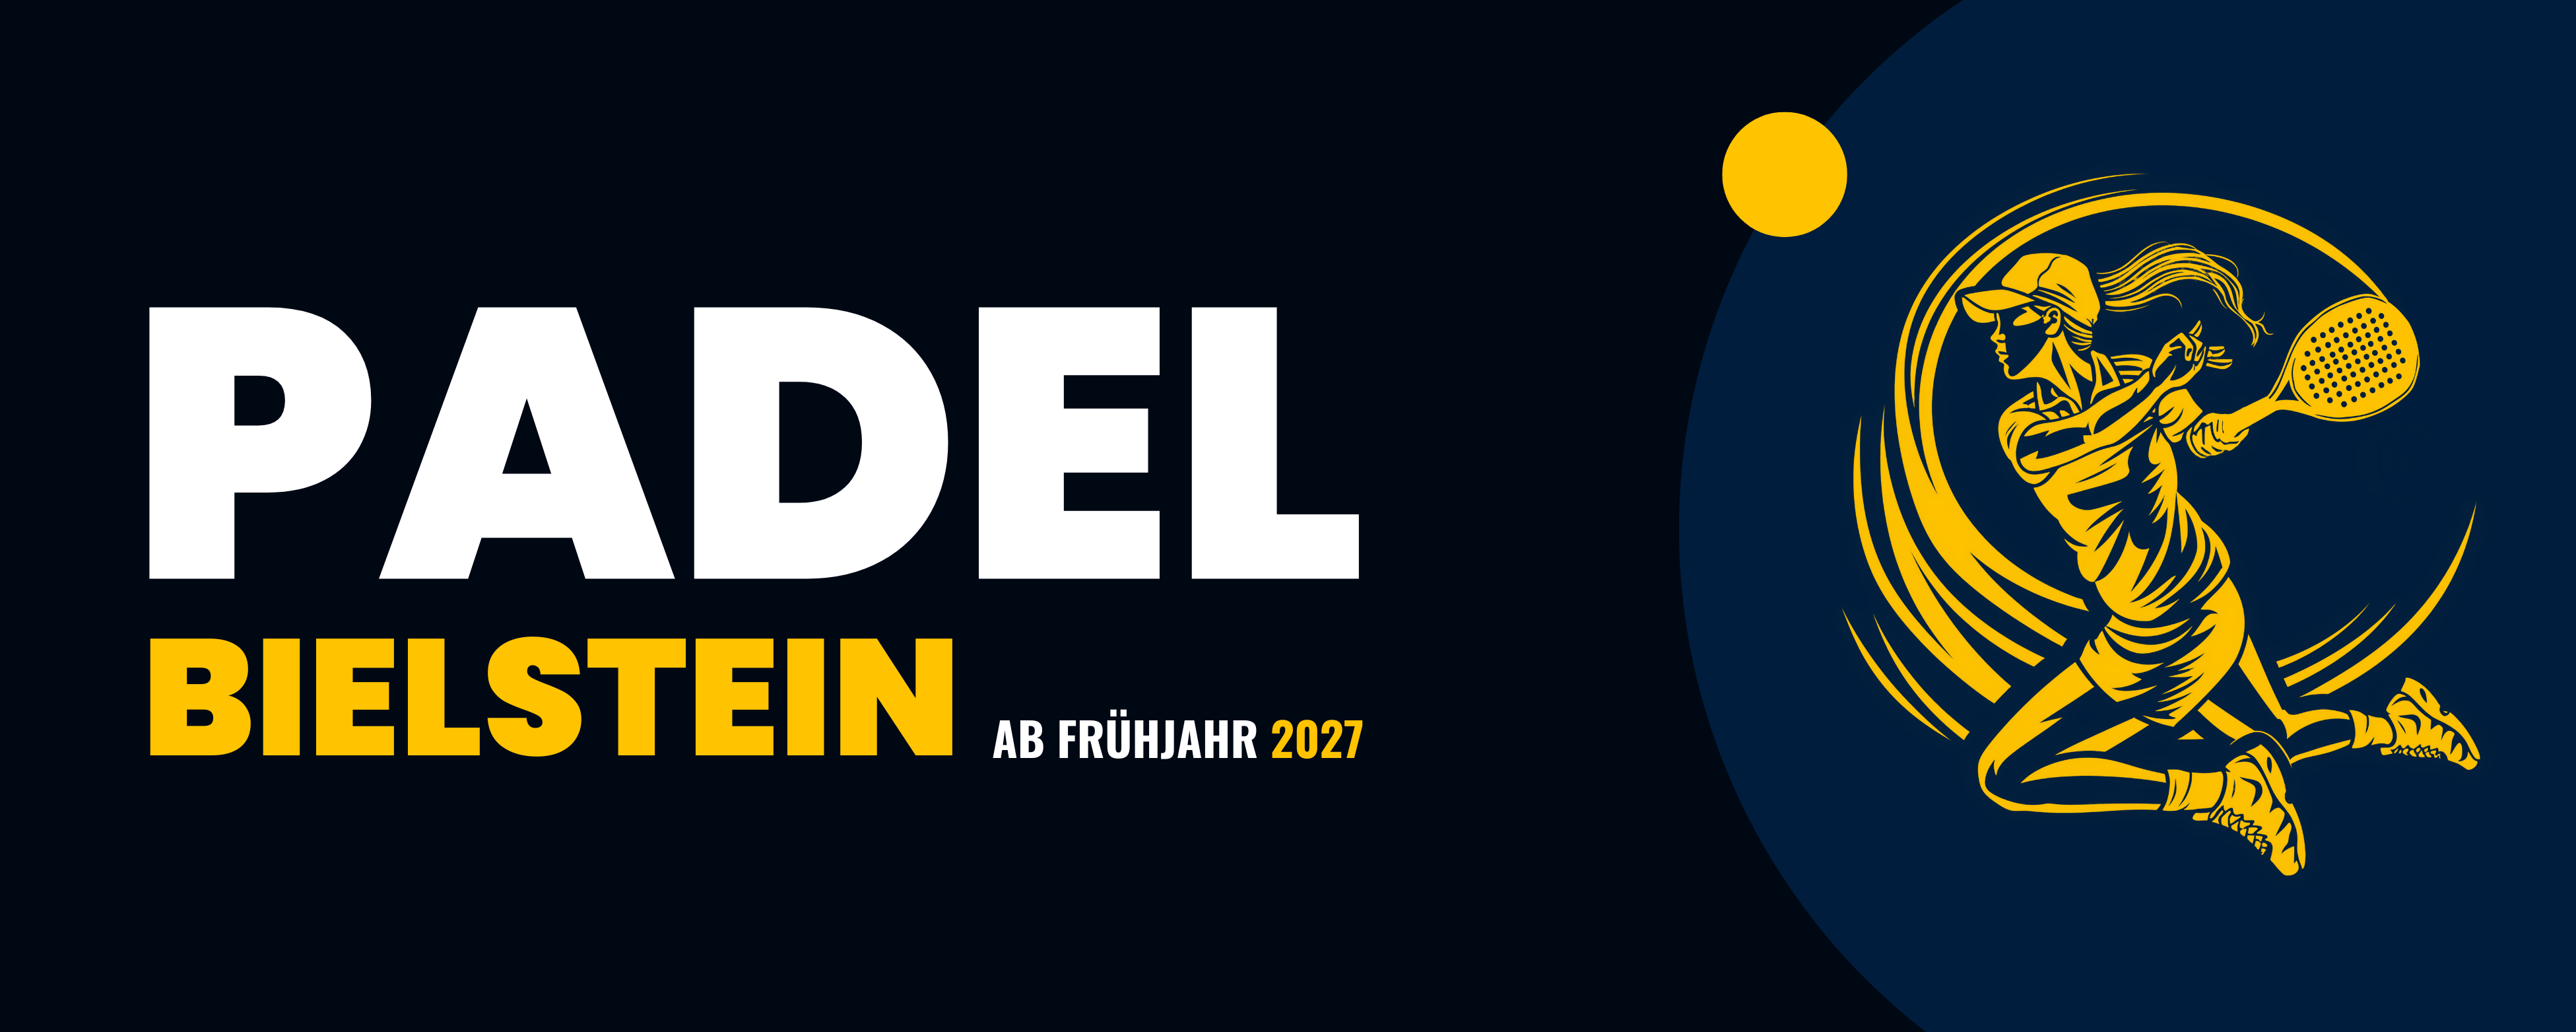
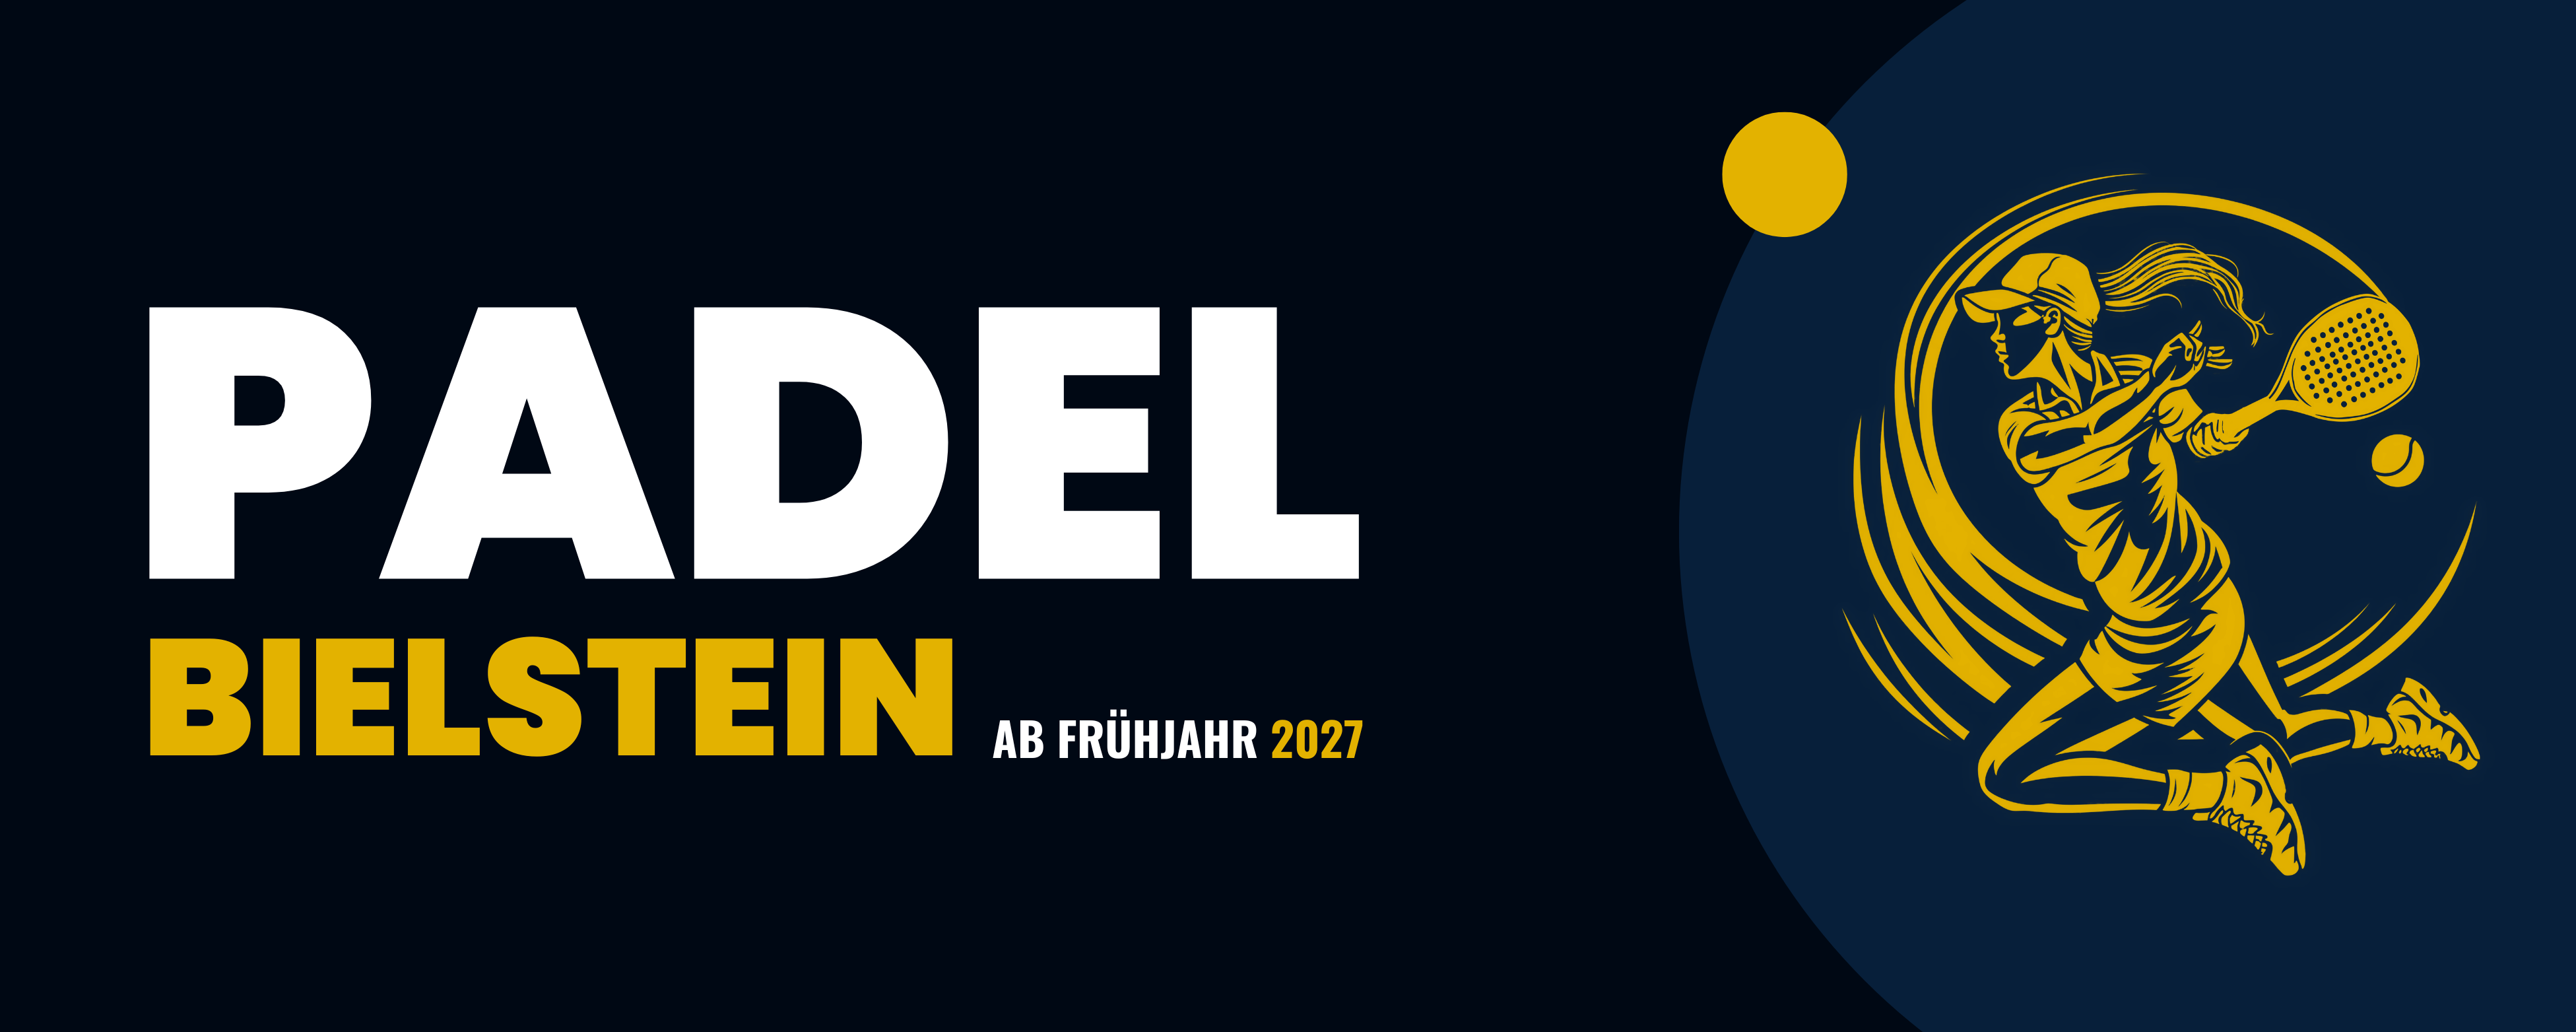
Add files via upload

diff --git a/index.html b/index.html
@@ -6,7 +6,7 @@
 <meta name="viewport" content="width=device-width, initial-scale=1.0">
 <meta name="apple-mobile-web-app-capable" content="yes">
 <meta name="apple-mobile-web-app-status-bar-style" content="black">
-<title>Padel Bielstein – Courts buchen v0.15</title>
+<title>Padel Bielstein – Courts buchen v0.28</title>
 <style>
 :root {
   --bg: #161616;
@@ -1682,7 +1682,19 @@ pHBar('pTz',['16–19 Uhr','12–16 Uhr','19–22 Uhr','08–12 Uhr'],[81,55,46,
 const wCol={g:'#22c55e',y:'#facc15',r:'#ef4444'};
 new Chart(document.getElementById('pTageBar'),{type:'bar',data:{labels:['01.02.','02.02.','03.02.','04.02.','05.02.','06.02.','07.02.','08.02.','09.02.','10.02.','11.02.','12.02.','13.02.','14.02.','15.02.','16.02.','17.02.','18.02.','19.02.','20.02.','21.02.','22.02.','23.02.','24.02.','25.02.','26.02.','27.02.','28.02.'],datasets:[{data:[330,231,364,399,176,272,156,149,291,285,476,117,298,201,164,316,316,405,148,159,266,250,146,480,457,234,263,331],backgroundColor:['#22c55e44','#22c55e44','#22c55e44','#22c55e44','#facc1544','#22c55e44','#facc1544','#ef444444','#22c55e44','#22c55e44','#22c55e44','#ef444444','#22c55e44','#facc1544','#22c55e44','#22c55e44','#22c55e44','#22c55e44','#facc1544','#ef444444','#22c55e44','#22c55e44','#facc1544','#22c55e44','#22c55e44','#22c55e44','#22c55e44','#22c55e44'],borderColor:['#22c55e','#22c55e','#22c55e','#22c55e','#facc15','#22c55e','#facc15','#ef4444','#22c55e','#22c55e','#22c55e','#ef4444','#22c55e','#facc15','#22c55e','#22c55e','#22c55e','#22c55e','#facc15','#ef4444','#22c55e','#22c55e','#facc15','#22c55e','#22c55e','#22c55e','#22c55e','#22c55e'],borderWidth:1,borderRadius:3}]},options:{responsive:true,maintainAspectRatio:false,plugins:{legend:{display:false}},scales:{x:{ticks:{font:{size:8},maxRotation:45,color:'#999'},grid:{display:false}},y:{ticks:{font:{size:8},color:'#999',callback:v=>v+' €'},grid:{color:gc}}}}});
 setTimeout(()=>window.print(),1400);
-<\/script></body></html>`);
+<\/script>
+<style>
+body.bielstein-theme .slot.free {
+  background: #1A1A1A !important;
+  border-color: #2A2A2A !important;
+}
+body.bielstein-theme .slot.free:hover {
+  background: #222222 !important;
+  border-color: #E3B200 !important;
+}
+</style>
+
+</body></html>`);
       w.document.close();
     }
     // ── MIS Tab-Switch ──
@@ -4315,6 +4327,18 @@ init();
     </div>
   </div>
 </div>
+
+
+<style>
+body.bielstein-theme .slot.free {
+  background: #1A1A1A !important;
+  border-color: #2A2A2A !important;
+}
+body.bielstein-theme .slot.free:hover {
+  background: #222222 !important;
+  border-color: #E3B200 !important;
+}
+</style>
 
 </body>
 </html>